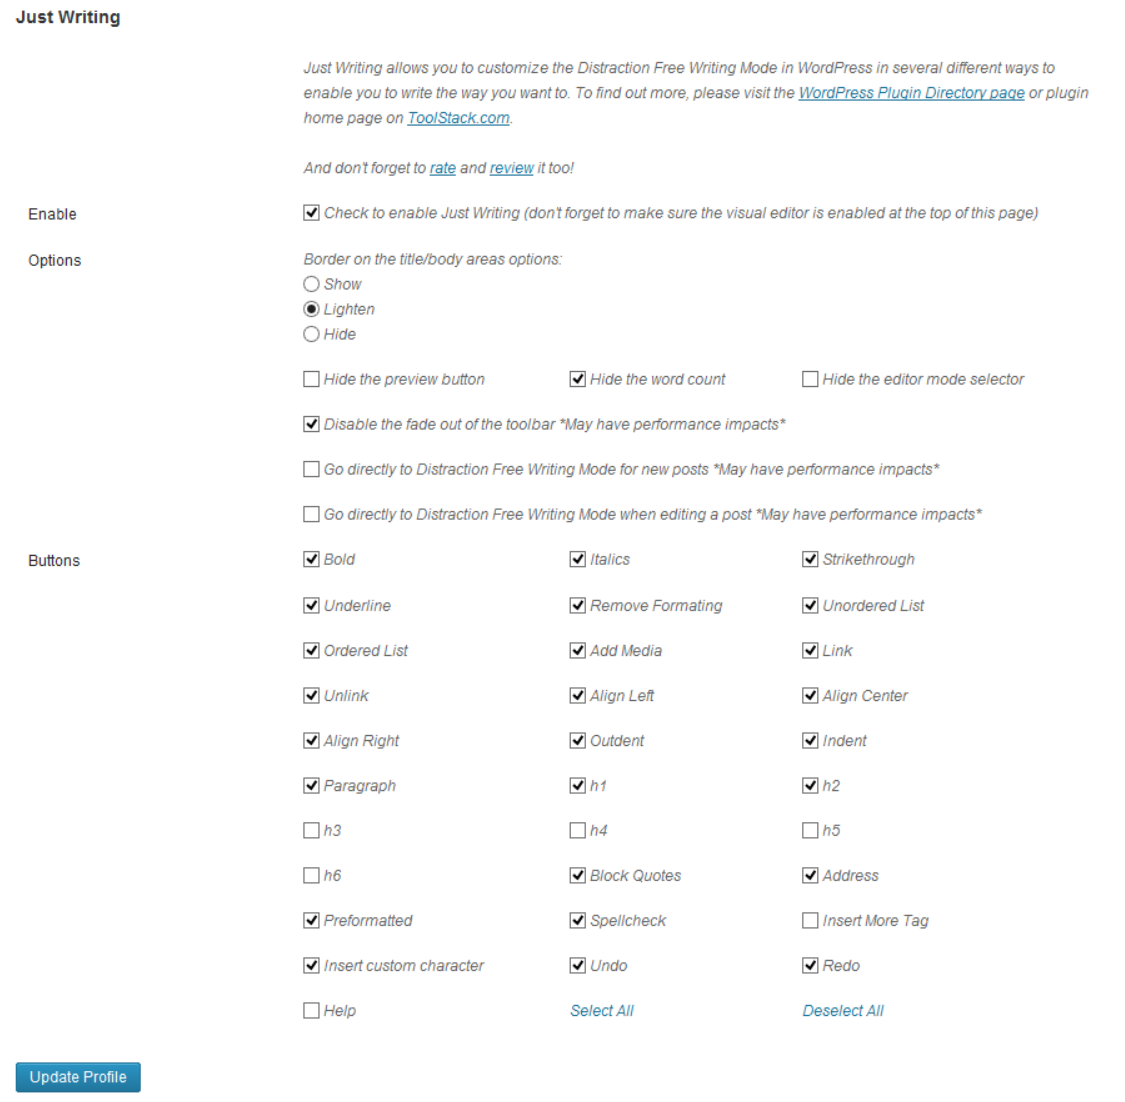
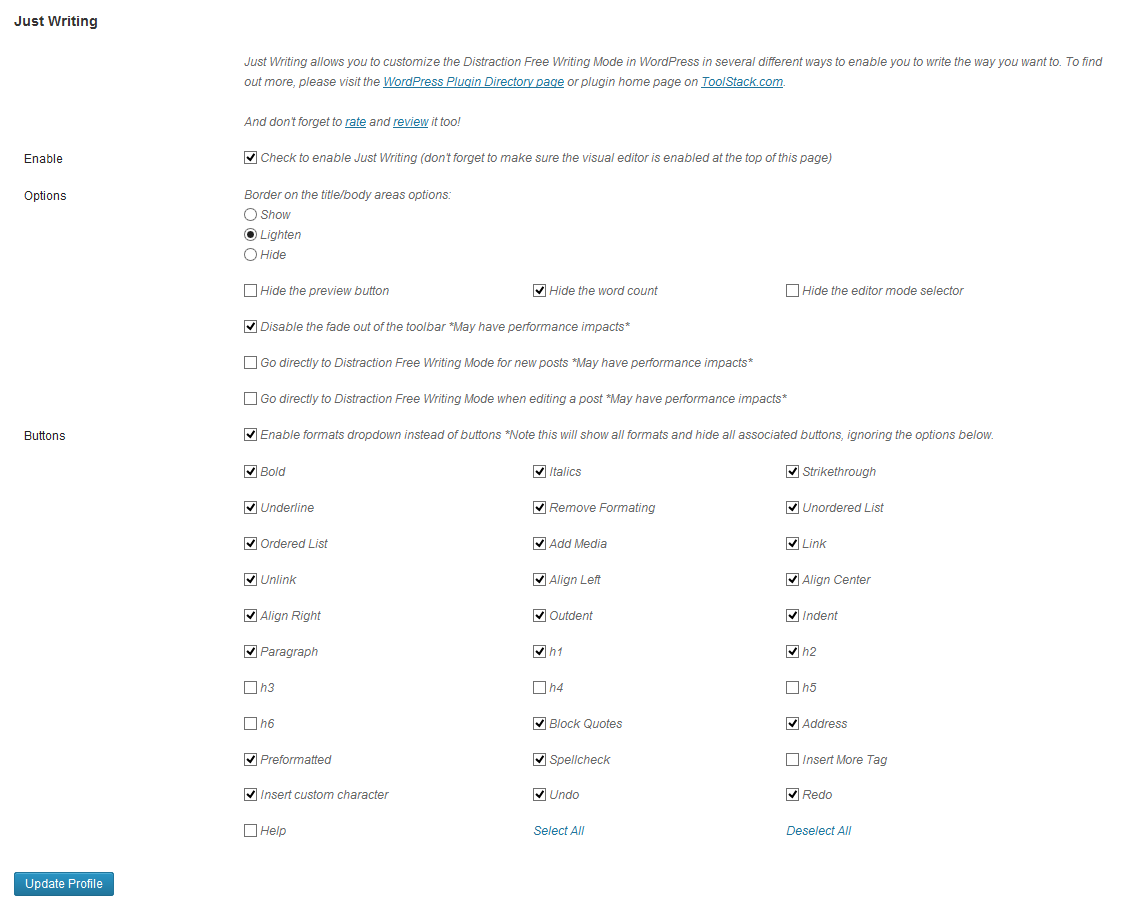
- Added option to use a listbox instead of individual buttons
- Fixed bug in border option selector which would not allow you to save the hide option

diff --git a/just-writing.js b/just-writing.js
@@ -92,6 +92,7 @@ function JustWriting()
 		var HideBorder = GetScriptVariable(GSI, 'hideborder', 0);
 		var HideModeBar = GetScriptVariable(GSI, 'hidemodebar', 0);
 		var AutoLoad = GetScriptVariable(GSI, 'autoload', 0);
+		var FormatLB = GetScriptVariable(GSI, 'formatlistbox', 0);
 
 		if( DisableFade == 1 )
 			{
@@ -129,6 +130,16 @@ function JustWriting()
 			ModeBar.style.display = 'none';
 			}
 
+		// Add the format listbox
+		if( FormatLB == 1 )
+			{
+			(	function($) 
+					{
+					$('#wp_fs_Paragraph').replaceWith( '<select name=JustWritingFormats id=JustWritingFormats onchange=JustWritingFormatSelectChange()><option>Paragraph</option><option>Address</option><option>Block Quotes</option><option>Preformatted</option><option>Heading 1</option><option>Heading 2</option><option>Heading 3</option><option>Heading 4</option><option>Heading 5</option><option>Heading 6</option></select>' );
+					}(jQuery)
+			);
+			}
+			
 		// Add exit button
 		(	function($) 
 				{
@@ -169,6 +180,24 @@ function JustWriting()
 			}	
 
 		}
+}
+
+function JustWritingFormatSelectChange()
+{
+	var FormatListbox = document.getElementById('JustWritingFormats');
+	var index = FormatListbox.selectedIndex;
+	
+	if( index == 0 ) { tinyMCE.execCommand('FormatBlock', false, 'p'); }
+	if( index == 1 ) { tinyMCE.execCommand('FormatBlock', false, 'address'); }
+	if( index == 2 ) { fullscreen.blockquote(); }
+	if( index == 3 ) { tinyMCE.execCommand('FormatBlock', false, 'pre'); }
+	if( index == 4 ) { tinyMCE.execCommand('FormatBlock', false, 'h1'); }
+	if( index == 5 ) { tinyMCE.execCommand('FormatBlock', false, 'h2'); }
+	if( index == 6 ) { tinyMCE.execCommand('FormatBlock', false, 'h3'); }
+	if( index == 7 ) { tinyMCE.execCommand('FormatBlock', false, 'h4'); }
+	if( index == 8 ) { tinyMCE.execCommand('FormatBlock', false, 'h5'); }
+	if( index == 9 ) { tinyMCE.execCommand('FormatBlock', false, 'h6'); }
+	
 }
 
 function JustWritingMoveMouse()

diff --git a/just-writing.php b/just-writing.php
@@ -1,7 +1,7 @@
 <?php
 /*
 Plugin Name: Just Writing
-Version: 2.3
+Version: 2.4
 Plugin URI: http://toolstack.com/just-writing
 Author: Greg Ross
 Author URI: http://toolstack.com
@@ -210,7 +210,7 @@ if( !function_exists( 'JustWriting' ) )
 										);
 			}
 			
-		if( get_the_author_meta( 'just_writing_p', $cuid ) == 'on' )
+		if( get_the_author_meta( 'just_writing_p', $cuid ) == 'on' || get_the_author_meta( 'just_writing_f_lb', $cuid ) == 'on' )
 			{
 			$buttons['Paragraph'] = array(
 											// Title of the button
@@ -222,112 +222,115 @@ if( !function_exists( 'JustWriting' ) )
 										);
 			}
 			
-		if( get_the_author_meta( 'just_writing_h1', $cuid ) == 'on' )
+		if( get_the_author_meta( 'just_writing_f_lb', $cuid ) != 'on' )
 			{
-			$buttons['H1'] = array(
-											// Title of the button
-											'title' => __('H1'),
-											// Command to execute
-											'onclick' => "tinyMCE.execCommand('FormatBlock', false, 'h1');",
-											// Show on visual AND html mode
-											'both' => false
-										);
-			}
-			
-		if( get_the_author_meta( 'just_writing_h2', $cuid ) == 'on' )
-			{
-			$buttons['H2'] = array(
-											// Title of the button
-											'title' => __('H2'),
-											// Command to execute
-											'onclick' => "tinyMCE.execCommand('FormatBlock', false, 'h2');",
-											// Show on visual AND html mode
-											'both' => false
-										);
-			}
-			
-		if( get_the_author_meta( 'just_writing_h3', $cuid ) == 'on' )
-			{
-			$buttons['H3'] = array(
-											// Title of the button
-											'title' => __('H3'),
-											// Command to execute
-											'onclick' => "tinyMCE.execCommand('FormatBlock', false, 'h3');",
-											// Show on visual AND html mode
-											'both' => false
-										);
-			}
-			
-		if( get_the_author_meta( 'just_writing_h4', $cuid ) == 'on' )
-			{
-			$buttons['H4'] = array(
-											// Title of the button
-											'title' => __('H4'),
-											// Command to execute
-											'onclick' => "tinyMCE.execCommand('FormatBlock', false, 'h4');",
-											// Show on visual AND html mode
-											'both' => false
-										);
-			}
-			
-		if( get_the_author_meta( 'just_writing_h5', $cuid ) == 'on' )
-			{
-			$buttons['H5'] = array(
-											// Title of the button
-											'title' => __('H5'),
-											// Command to execute
-											'onclick' => "tinyMCE.execCommand('FormatBlock', false, 'h5');",
-											// Show on visual AND html mode
-											'both' => false
-										);
-			}
-			
-		if( get_the_author_meta( 'just_writing_h6', $cuid ) == 'on' )
-			{
-			$buttons['H6'] = array(
-											// Title of the button
-											'title' => __('H6'),
-											// Command to execute
-											'onclick' => "tinyMCE.execCommand('FormatBlock', false, 'h6');",
-											// Show on visual AND html mode
-											'both' => false
-										);
-			}
-			
-		if( get_the_author_meta( 'just_writing_quotes', $cuid ) == 'on' )
-			{
-			$buttons['blockquote'] = array( 
-											// Title of the button
-											'title' => __('Blockquote (Alt + Shift + Q)'), 
-											// Command to execute
-											'onclick' => 'fullscreen.blockquote();', 
-											// Show on visual AND html mode
-											'both' => false 
-							);
-			}
-							
-		if( get_the_author_meta( 'just_writing_address', $cuid ) == 'on' )
-			{
-			$buttons['Address'] = array(
-											// Title of the button
-											'title' => __('Address'),
-											// Command to execute
-											'onclick' => "tinyMCE.execCommand('FormatBlock', false, 'address');",
-											// Show on visual AND html mode
-											'both' => false
-										);
-			}
-			
-		if( get_the_author_meta( 'just_writing_pf', $cuid ) == 'on' )
-			{
-			$buttons['Preformatted'] = array(
-											// Title of the button
-											'title' => __('Preformatted'),
-											// Command to execute
-											'onclick' => "tinyMCE.execCommand('FormatBlock', false, 'pre');",
-											// Show on visual AND html mode
-											'both' => false
-										);
+			if( get_the_author_meta( 'just_writing_h1', $cuid ) == 'on' )
+				{
+				$buttons['H1'] = array(
+												// Title of the button
+												'title' => __('H1'),
+												// Command to execute
+												'onclick' => "tinyMCE.execCommand('FormatBlock', false, 'h1');",
+												// Show on visual AND html mode
+												'both' => false
+											);
+				}
+				
+			if( get_the_author_meta( 'just_writing_h2', $cuid ) == 'on' )
+				{
+				$buttons['H2'] = array(
+												// Title of the button
+												'title' => __('H2'),
+												// Command to execute
+												'onclick' => "tinyMCE.execCommand('FormatBlock', false, 'h2');",
+												// Show on visual AND html mode
+												'both' => false
+											);
+				}
+				
+			if( get_the_author_meta( 'just_writing_h3', $cuid ) == 'on' )
+				{
+				$buttons['H3'] = array(
+												// Title of the button
+												'title' => __('H3'),
+												// Command to execute
+												'onclick' => "tinyMCE.execCommand('FormatBlock', false, 'h3');",
+												// Show on visual AND html mode
+												'both' => false
+											);
+				}
+				
+			if( get_the_author_meta( 'just_writing_h4', $cuid ) == 'on' )
+				{
+				$buttons['H4'] = array(
+												// Title of the button
+												'title' => __('H4'),
+												// Command to execute
+												'onclick' => "tinyMCE.execCommand('FormatBlock', false, 'h4');",
+												// Show on visual AND html mode
+												'both' => false
+											);
+				}
+				
+			if( get_the_author_meta( 'just_writing_h5', $cuid ) == 'on' )
+				{
+				$buttons['H5'] = array(
+												// Title of the button
+												'title' => __('H5'),
+												// Command to execute
+												'onclick' => "tinyMCE.execCommand('FormatBlock', false, 'h5');",
+												// Show on visual AND html mode
+												'both' => false
+											);
+				}
+				
+			if( get_the_author_meta( 'just_writing_h6', $cuid ) == 'on' )
+				{
+				$buttons['H6'] = array(
+												// Title of the button
+												'title' => __('H6'),
+												// Command to execute
+												'onclick' => "tinyMCE.execCommand('FormatBlock', false, 'h6');",
+												// Show on visual AND html mode
+												'both' => false
+											);
+				}
+				
+			if( get_the_author_meta( 'just_writing_quotes', $cuid ) == 'on' )
+				{
+				$buttons['blockquote'] = array( 
+												// Title of the button
+												'title' => __('Blockquote (Alt + Shift + Q)'), 
+												// Command to execute
+												'onclick' => 'fullscreen.blockquote();', 
+												// Show on visual AND html mode
+												'both' => false 
+								);
+				}
+								
+			if( get_the_author_meta( 'just_writing_address', $cuid ) == 'on' )
+				{
+				$buttons['Address'] = array(
+												// Title of the button
+												'title' => __('Address'),
+												// Command to execute
+												'onclick' => "tinyMCE.execCommand('FormatBlock', false, 'address');",
+												// Show on visual AND html mode
+												'both' => false
+											);
+				}
+				
+			if( get_the_author_meta( 'just_writing_pf', $cuid ) == 'on' )
+				{
+				$buttons['Preformatted'] = array(
+												// Title of the button
+												'title' => __('Preformatted'),
+												// Command to execute
+												'onclick' => "tinyMCE.execCommand('FormatBlock', false, 'pre');",
+												// Show on visual AND html mode
+												'both' => false
+											);
+				}
 			}
 			
 		if( get_the_author_meta( 'just_writing_spell', $cuid ) == 'on' )
@@ -498,10 +501,10 @@ if( !function_exists( 'JustWriting' ) )
 		update_user_meta( $user_id, 'just_writing_h_mb', just_writing_get_checked_state( $_POST['just_writing_h_mb'] ) );
 		update_user_meta( $user_id, 'just_writing_al_new', just_writing_get_checked_state( $_POST['just_writing_al_new'] ) );
 		update_user_meta( $user_id, 'just_writing_al_edit', just_writing_get_checked_state( $_POST['just_writing_al_edit'] ) );
+		update_user_meta( $user_id, 'just_writing_f_lb', just_writing_get_checked_state( $_POST['just_writing_f_lb'] ) );
 
-		echo "here: '" . $_POST['just_writing_border_setting'] . "'";
 		//Deal with the border options
-		if( $_POST['just_writing_border_settings'] == 'hide' )
+		if( $_POST['just_writing_border_setting'] == 'hide' )
 			{
 			update_user_meta( $user_id, 'just_writing_h_b', 'on' );
 			update_user_meta( $user_id, 'just_writing_l_b', 'off' );
@@ -603,6 +606,13 @@ if( !function_exists( 'JustWriting' ) )
 		</tr>
 		<tr>
 			<th><label for="just_writing_buttons"><?php echo __("Buttons");?></label></th>
+			<td colspan=3>
+			<input type="checkbox" id="just_writing_f_lb" name="just_writing_f_lb" <?php if( get_the_author_meta( 'just_writing_f_lb', $user->ID ) == "on" ) { echo "CHECKED"; } ?>>
+			<span class="description"><?php echo __("Enable formats dropdown instead of buttons (this will show all formats and hide all associated buttons, ignoring the options below).");?></span>
+			</td>
+		</tr>
+		<tr>
+			<th></th>
 			<td>
 			<input type="checkbox" id="just_writing_bold" name="just_writing_bold" <?php if( get_the_author_meta( 'just_writing_bold', $user->ID ) == "on" ) { echo "CHECKED"; } ?>>
 			<span class="description"><?php echo __("Bold");?></span>
@@ -814,6 +824,7 @@ if( !function_exists( 'JustWriting' ) )
 		update_user_meta( $user_id, 'just_writing_h_mb', 'off' );
 		update_user_meta( $user_id, 'just_writing_al_edit', 'off' );
 		update_user_meta( $user_id, 'just_writing_al_new', 'off' );
+		update_user_meta( $user_id, 'just_writing_f_lb', 'on' );
 		}
 		
 	// First find out if we're in a post/page list, in a post/page edit page or somewhere we don't care about.
@@ -854,6 +865,8 @@ if( !function_exists( 'JustWriting' ) )
 			if( get_the_author_meta( 'just_writing_l_b', $cuid ) == 'on' ) { $HideBorder = 1; } 
 			$HideModeBar = 0;
 			if( get_the_author_meta( 'just_writing_h_mb', $cuid ) == 'on' ) { $HideModeBar = 1; } 
+			$FormatLB = 0;
+			if( get_the_author_meta( 'just_writing_f_lb', $cuid ) == 'on' ) { $FormatLB = 1; } 
 
 			$AutoLoad = 0;
 			
@@ -868,7 +881,7 @@ if( !function_exists( 'JustWriting' ) )
 				}
 				
 			// Register and enqueue the javascript.
-			wp_register_script( 'justwriting_js', plugins_url( '', __FILE__ )  . '/just-writing.js?disablefade=' . $DisableFade . '&hidewordcount=' . $HideWordCount . '&hidepreview=' . $HidePreview . '&hideborder=' . $HideBorder . '&hidemodebar=' . $HideModeBar . '&autoload=' . $AutoLoad );
+			wp_register_script( 'justwriting_js', plugins_url( '', __FILE__ )  . '/just-writing.js?disablefade=' . $DisableFade . '&hidewordcount=' . $HideWordCount . '&hidepreview=' . $HidePreview . '&hideborder=' . $HideBorder . '&hidemodebar=' . $HideModeBar . '&autoload=' . $AutoLoad . '&formatlistbox=' . $FormatLB );
 			wp_enqueue_script( 'justwriting_js' );
 	
 			add_filter( 'wp_fullscreen_buttons', 'JustWriting' );
